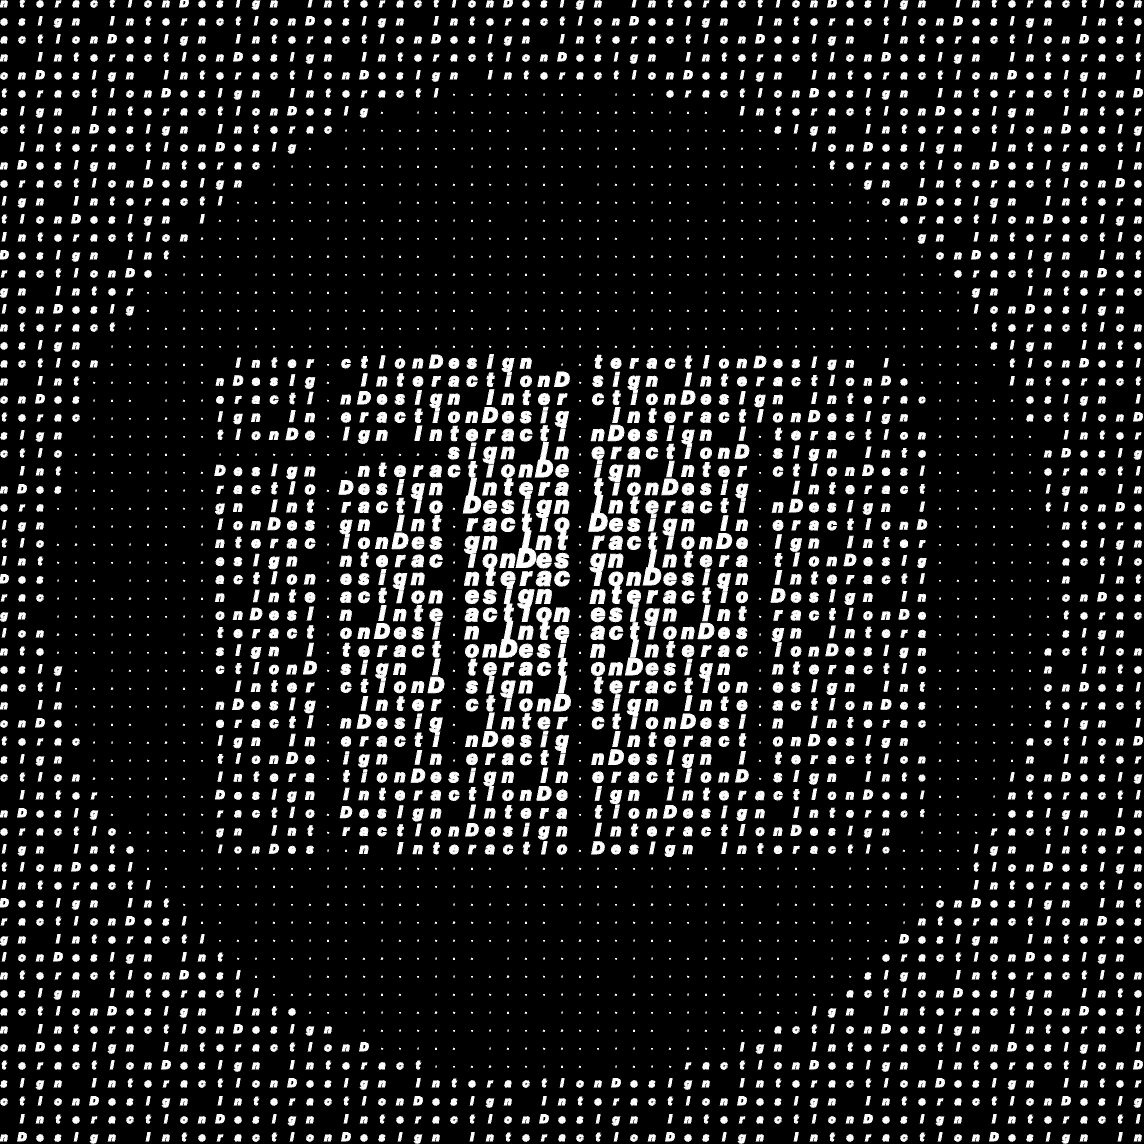
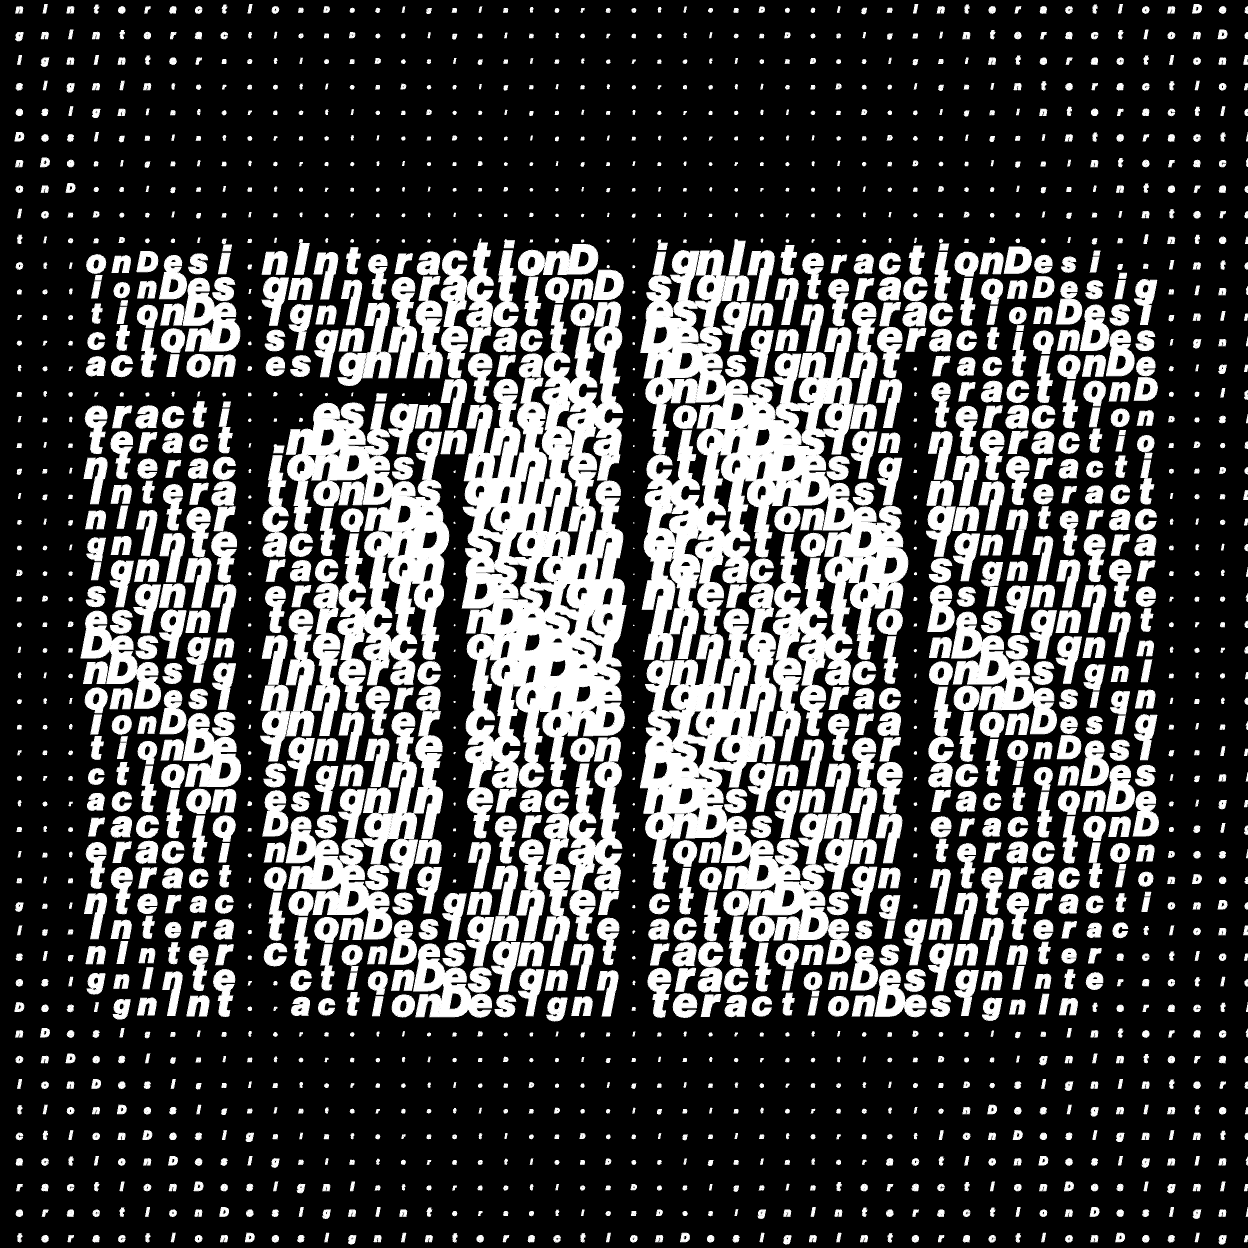
updated thumbnail

diff --git a/projects/01MainAssignments/project1/sketch.js b/projects/01MainAssignments/project1/sketch.js
@@ -24,17 +24,20 @@ function setup() {
   textFont(font);
   pixelDensity(1)
 
-  if (windowHeight < windowWidth) {
-    gridSpacing = windowHeight/50;
-  } else {
-    gridSpacing = windowWidth/50;
-  }
+  // if (windowHeight < windowWidth) {
+  //   gridSpacing = windowHeight/50;
+  // } else {
+  //   gridSpacing = windowWidth/50;
+  // }
+
+  gridSpacing = min(windowWidth, windowHeight) / 50;
 
   console.log(gridSpacing)
 
   imgAspectRatio = logoImg.height / logoImg.width;
 
-  imgWidth = gridSpacing * 45 
+  // imgWidth = gridSpacing * 45 
+  imgWidth = windowWidth>1000? 1200 : gridSpacing * 45;
   imgHeight = imgWidth
 
     logoImg.resize(windowWidth,windowHeight)
@@ -79,17 +82,17 @@ function draw() {
           //inside the radius
           if (distance < mouseRadius) {
             if (r < 128 && g < 128 && b < 128) {
-              size += map(distance, 0, mouseRadius, 12, 6);
+              size += map(distance, 0, mouseRadius, 12, 6) + abs(sin((frameCount*0.05)+(x+y)*0.6) * 3);
             } else {
               // size = 0.5 
-              size = map(distance/2, 0, mouseRadius, 0, 6);
+              size = map(distance/3, 0, mouseRadius, 0, 6);
             }
 
           //outside the radius
           } else {
-            // size += 3;
+            size += 3;
             //todo: change this
-            size += abs(sin((frameCount*0.05)+(x/2+y/2)*0.6) * 6)
+            // size += abs(sin((frameCount*0.05)+(x/2+y/2)*0.6) * 6)
           }
 
 
@@ -112,6 +115,6 @@ function mousePressed() {
 }
 
 function mouseReleased() { 
-  targetRadius = 100;
+  targetRadius = 200;
   // targetBlurAmount = 0
 }
